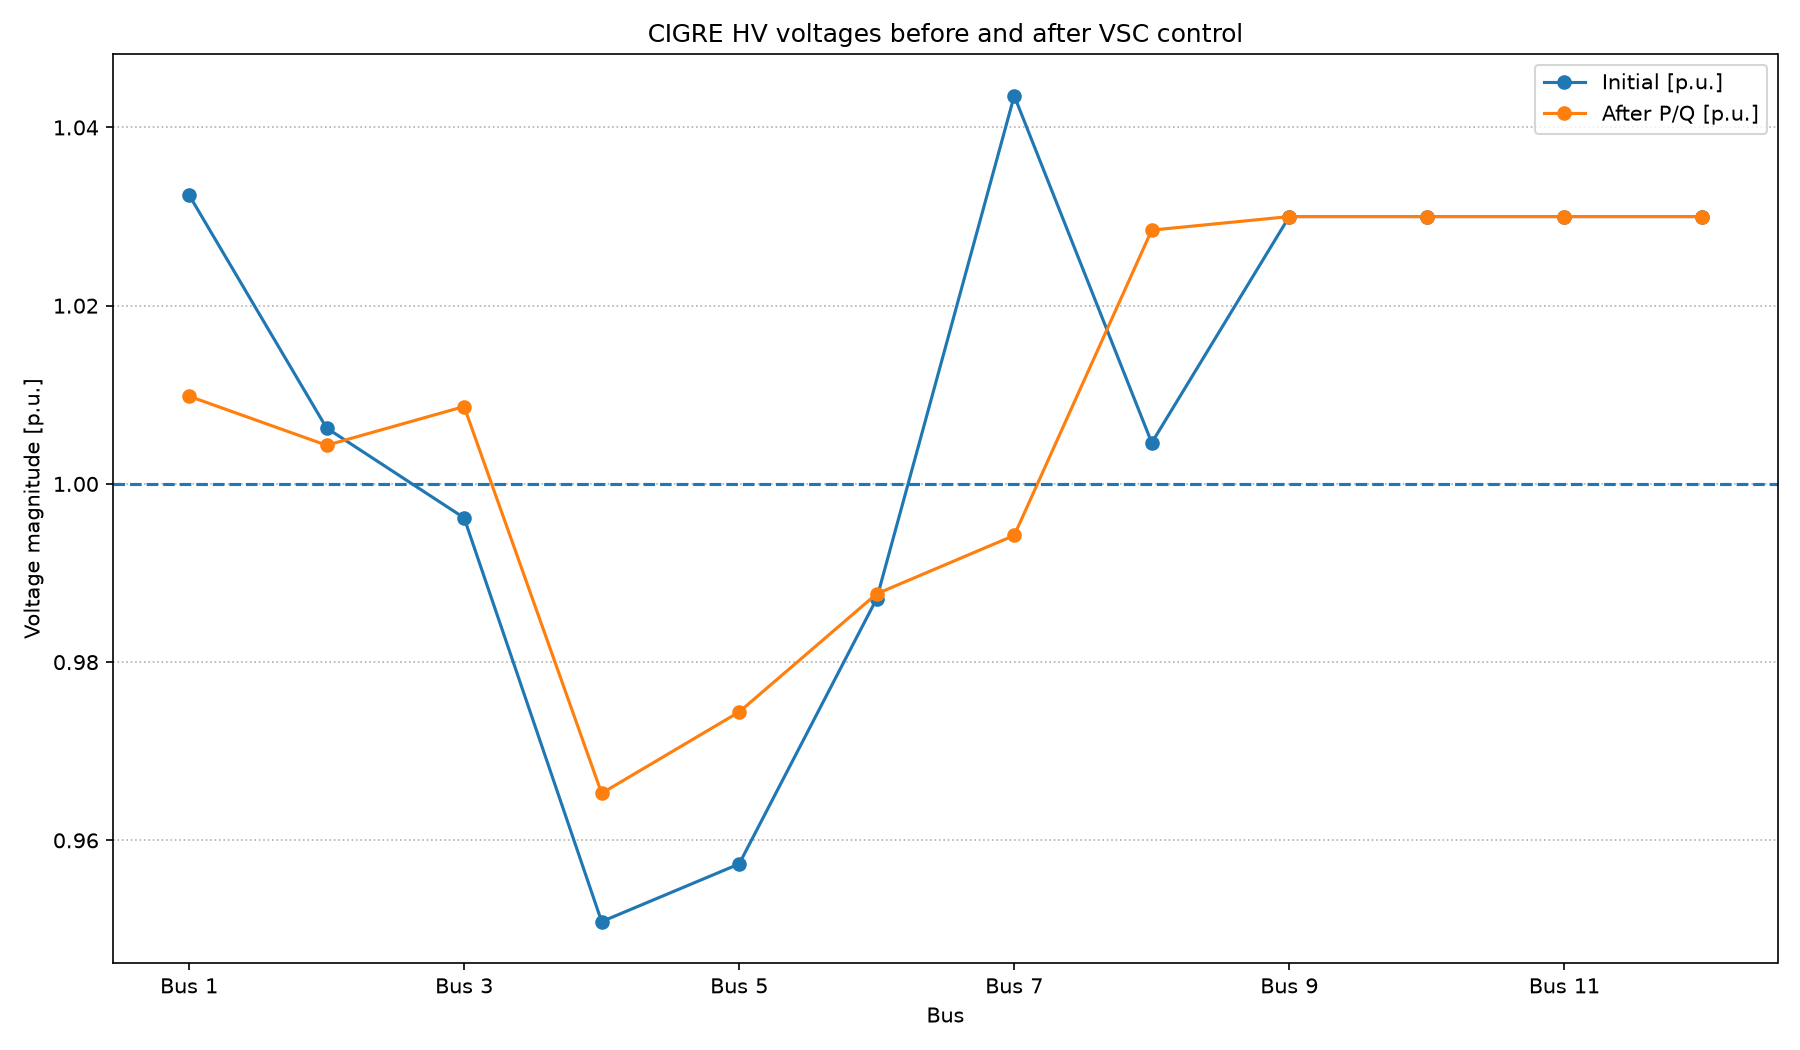
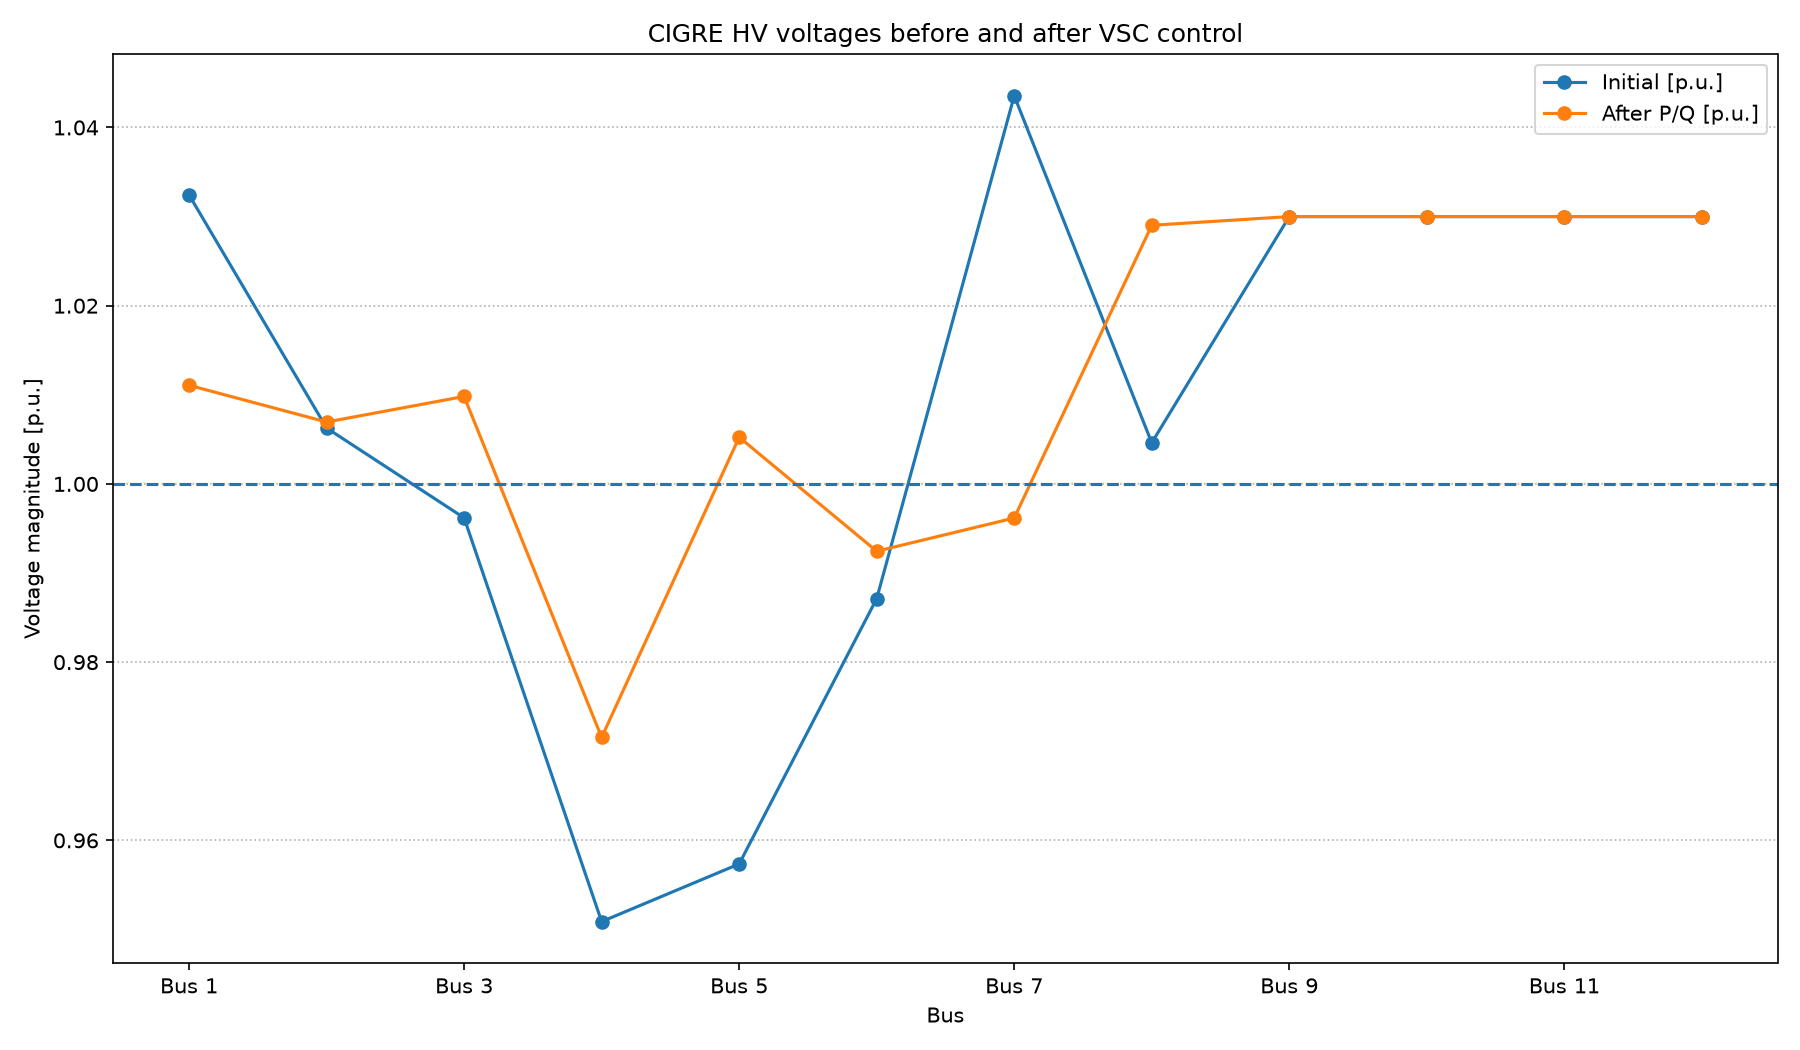
solved D4- included trafos in contingency

diff --git a/combined_control/n1_guard.py b/combined_control/n1_guard.py
@@ -173,6 +173,83 @@ class N1Guard:
         n = self.network
         return (n.lines["s_nom"] * n.lines["s_max_pu"].fillna(1.0)).astype(float)
 
+    def _branch_index(self) -> pd.MultiIndex:
+        """Active AC branches as MultiIndex (type, name): Line then Transformer."""
+        n = self.network
+        keys = [("Line", name) for name in n.lines.index] + [
+            ("Transformer", name) for name in n.transformers.index
+        ]
+        return pd.MultiIndex.from_tuples(keys, names=["type", "name"])
+
+    def _branch_p0(self, snapshot: object) -> pd.Series:
+        """DC branch flow p0 at snapshot [MW], indexed by `_branch_index`."""
+        n = self.network
+        parts: list[pd.Series] = []
+        if not n.lines.empty:
+            s = n.lines_t.p0.loc[snapshot].astype(float)
+            s.index = pd.MultiIndex.from_product(
+                [["Line"], s.index], names=["type", "name"]
+            )
+            parts.append(s)
+        if not n.transformers.empty:
+            s = n.transformers_t.p0.loc[snapshot].astype(float)
+            s.index = pd.MultiIndex.from_product(
+                [["Transformer"], s.index], names=["type", "name"]
+            )
+            parts.append(s)
+        if not parts:
+            return pd.Series(dtype=float)
+        return pd.concat(parts).reindex(self._branch_index()).astype(float)
+
+    def _branch_s_max(self) -> pd.Series:
+        """Thermal rating s_nom * s_max_pu [MVA≈MW in DC], indexed by `_branch_index`."""
+        n = self.network
+        parts: list[pd.Series] = []
+        if not n.lines.empty:
+            s = (n.lines["s_nom"] * n.lines["s_max_pu"].fillna(1.0)).astype(float)
+            s.index = pd.MultiIndex.from_product(
+                [["Line"], s.index], names=["type", "name"]
+            )
+            parts.append(s)
+        if not n.transformers.empty:
+            s = (
+                n.transformers["s_nom"] * n.transformers["s_max_pu"].fillna(1.0)
+            ).astype(float)
+            s.index = pd.MultiIndex.from_product(
+                [["Transformer"], s.index], names=["type", "name"]
+            )
+            parts.append(s)
+        if not parts:
+            return pd.Series(dtype=float)
+        return pd.concat(parts).reindex(self._branch_index()).astype(float)
+
+    def _resolve_outages(self) -> pd.MultiIndex:
+        """
+        Contingency set as MultiIndex (type, name).
+
+        Default: all lines and transformers. Configured strings map to the unique
+        branch with that name; tuples `(type, name)` are used directly. Ambiguous
+        or missing entries are skipped.
+        """
+        branches = self._branch_index()
+        cfg_outages = self.cfg.n1_guard_outages
+        if not cfg_outages:
+            return branches
+
+        resolved: list[tuple[str, str]] = []
+        for o in cfg_outages:
+            if isinstance(o, tuple) and len(o) == 2:
+                key = (str(o[0]), str(o[1]))
+                if key in branches:
+                    resolved.append(key)
+                continue
+            matches = [b for b in branches if b[1] == o]
+            if len(matches) == 1:
+                resolved.append(matches[0])
+        if not resolved:
+            return pd.MultiIndex.from_tuples([], names=branches.names)
+        return pd.MultiIndex.from_tuples(resolved, names=branches.names)
+
     def _lpf_refresh(self, snapshot: object) -> None:
         """Ensures that p0 is up to date (DC flows at the armature/intermediate point)"""
         self.network.lpf(snapshot)
@@ -329,9 +406,7 @@ class N1Guard:
             constraints = link_constraints.get(k, [])
             if cands and constraints:
                 candidates = [0.0]
-                candidates += [
-                    min(max(dP_raw, dP_lo_hw), dP_hi_hw) for dP_raw in cands
-                ]
+                candidates += [min(max(dP_raw, dP_lo_hw), dP_hi_hw) for dP_raw in cands]
 
                 def worst_overload(dP: float) -> float:
                     return max(
